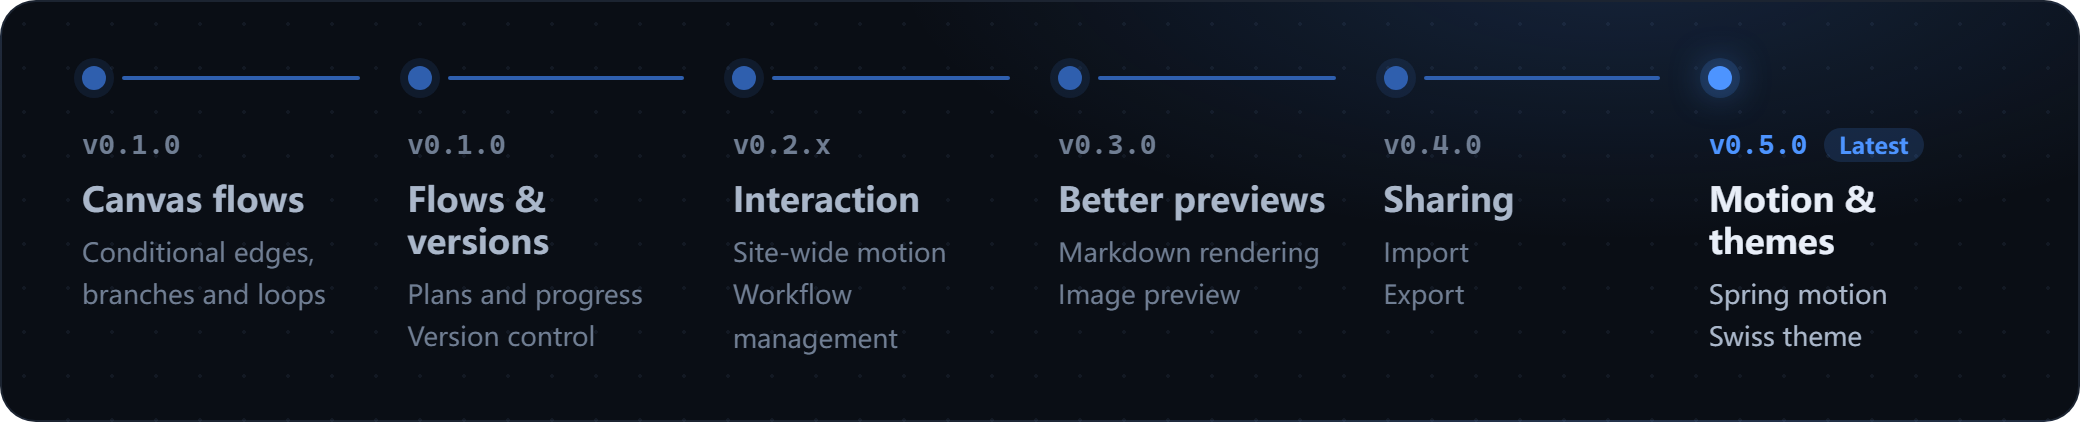
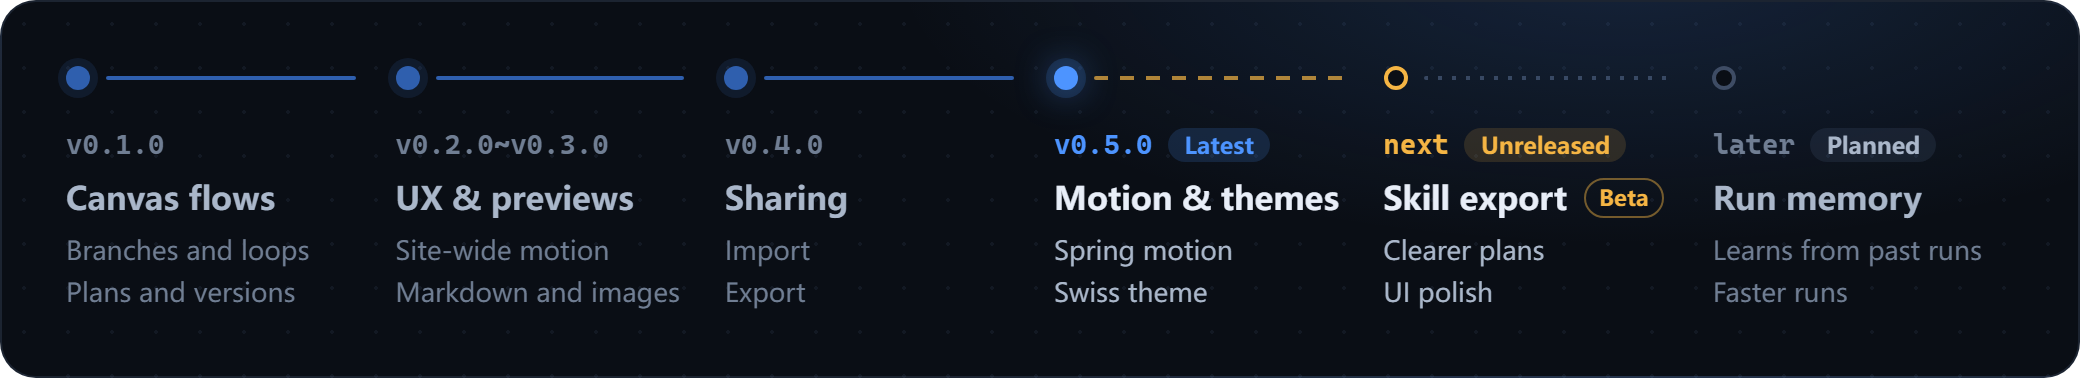
docs: 精简 Unreleased 的 CHANGELOG；版本线合并早期几站、导出 Skill 标实验性、加规划中的工作流记忆

diff --git a/tests/readme/versions.html b/tests/readme/versions.html
@@ -29,7 +29,7 @@
   html, body { margin: 0; background: transparent; }
   body { width: 1040px; }
   .card {
-    padding: 30px 40px 30px;
+    padding: 30px 32px 30px;
     border: 1px solid var(--line);
     border-radius: 18px;
     background:
@@ -41,7 +41,7 @@
     -webkit-font-smoothing: antialiased;
   }
 
-  ol { display: grid; grid-template-columns: repeat(var(--n), 1fr); gap: 0 18px; margin: 0; padding: 0; list-style: none; }
+  ol { display: grid; grid-template-columns: repeat(var(--n), 1fr); gap: 0 14px; margin: 0; padding: 0; list-style: none; }
   .stop { min-width: 0; }
 
   /* 轨道：圆点 + 通向下一站的线。线从点出发，铺满这一栏，接到下一栏的点。 */
@@ -62,8 +62,15 @@
     background: repeating-linear-gradient(90deg, rgb(245 181 68 / 70%) 0 7px, transparent 7px 13px);
   }
 
-  /* 还没发的：空心点。 */
+  /* 还没发的：空心点；它后面通向「还没定版本」的线淡成点线。 */
   .stop[data-state="next"] .dot { background: var(--bg); box-shadow: inset 0 0 0 2px var(--amber); }
+  .stop[data-state="next"] .seg {
+    height: 2px;
+    background: repeating-linear-gradient(90deg, rgb(140 170 220 / 32%) 0 2px, transparent 2px 7px);
+  }
+
+  /* 还没定版本的规划：灰色虚线圈，字比「未发布」再淡一档。 */
+  .stop[data-state="planned"] .dot { background: var(--bg); box-shadow: inset 0 0 0 2px rgb(140 170 220 / 40%); }
 
   /* 每站一个版本号；改过几个版本的写成 起~止。 */
   .head { display: flex; gap: 8px; align-items: center; height: 22px; margin-bottom: 6px; }
@@ -75,8 +82,15 @@
     font-size: 11.5px; font-weight: 650; white-space: nowrap;
   }
   .stop[data-state="next"] .chip { background: rgb(245 181 68 / 14%); color: var(--amber); }
+  .stop[data-state="planned"] .chip { background: rgb(140 170 220 / 10%); color: var(--text-2); }
 
-  h3 { margin: 0 0 6px; font-size: 17px; font-weight: 650; color: var(--text-2); }
+  h3 { margin: 0 0 6px; font-size: 16px; font-weight: 650; color: var(--text-2); }
+  /* 标题旁的小签（「实验性」）：描边、不铺底，比上面的版本小签淡一档，不抢标题。 */
+  .tag {
+    display: inline-block; margin-left: 8px; padding: 0 7px; border: 1px solid rgb(245 181 68 / 45%);
+    border-radius: 999px; color: var(--amber); font-size: 11px; font-weight: 600; line-height: 18px;
+    vertical-align: 2px; white-space: nowrap;
+  }
   .stop[data-state="current"] h3, .stop[data-state="next"] h3 { color: var(--text); }
   p { margin: 0; color: var(--text-3); font-size: 13px; line-height: 1.65; }
   .stop[data-state="current"] p, .stop[data-state="next"] p { color: var(--text-2); }
@@ -86,18 +100,18 @@
   <div class="card"><ol id="line"></ol></div>
   <script>
     const esc = (t) => String(t).replace(/[&<>]/g, (c) => ({ '&': '&amp;', '<': '&lt;', '>': '&gt;' })[c])
-    // data: { lang, labels: { current, next }, stops: [{ label, state, title, lines }] }
+    // data: { lang, labels: { current, next, planned }, stops: [{ label, state, title, tag?, lines }] }
     window.render = (data) => {
       document.documentElement.lang = data.lang === 'en' ? 'en' : 'zh-CN'
       const line = document.getElementById('line')
       line.style.setProperty('--n', String(data.stops.length))
       line.innerHTML = data.stops
         .map((stop) => {
-          const chip = stop.state === 'current' ? data.labels.current : stop.state === 'next' ? data.labels.next : ''
+          const chip = data.labels[stop.state] ?? ''
           return `<li class="stop" data-state="${stop.state}">
             <div class="rail"><i class="dot"></i><i class="seg"></i></div>
             <div class="head"><b class="ver">${esc(stop.label)}</b>${chip ? `<span class="chip">${esc(chip)}</span>` : ''}</div>
-            <h3>${esc(stop.title)}</h3>
+            <h3>${esc(stop.title)}${stop.tag ? `<span class="tag">${esc(stop.tag)}</span>` : ''}</h3>
             <p>${stop.lines.map(esc).join('<br>')}</p>
           </li>`
         })

diff --git a/CHANGELOG.md b/CHANGELOG.md
@@ -7,59 +7,48 @@
 
 ## [Unreleased]
 
+这一版的主角是「导出成 Skill」（实验性）：把工作流编译成一个独立的 skill，别人不装插件也能用。另外派发计划重新排版，实例里的文件夹改成左右两栏的浏览器。
+
+**升级不需要做任何事**——工作流、版本、实例状态文件、工作流包的格式都没有变；新增的 RPC 和返回字段，旧前端忽略。
+
 ### Added
 
-- 工作流可以导出成 skill，别人不装插件也能用：工作流中心「工作流」页的「导出」顶上多了「工作流包 / Skill」开关。选 Skill 时版本只能选一个，资源清单照旧勾（文件、文件夹放进 skill 的 `assets/`，资料目录整个带上，有目录的 skill 放进 `skills/<名>/`），再多一步「Skill 信息」：名称（DSH 的规矩，小写字母、数字用 `-` 连接；工作流名是英文就预填）、描述（必填，预填一句「按工作流某某的 N 个步骤执行：A → B → …」）、使用时机（可不填，写进 `whenToUse`），可以预览整个包：和实例里看文件夹的那个框一样，左边文件树（搜索、进子目录、面包屑、键盘）、右边预览，一打开先看 SKILL.md，Markdown 开头的 YAML 头部（SKILL.md、包里 skill 的 SKILL.md）列成元数据、不当正文排版，源码视图里原样；本机已有同名 skill 时提示一句。最后「下载 zip」（`<名>.zip`，里面一层 `<名>/`），或「装到本机」直接写进 `~/.agents/skills/<名>`（已经有了先浮出确认卡问覆不覆盖）。包里是编译好的提示词，不是图：`SKILL.md` 是派发计划，`steps/<id>.md` 是各步骤的任务描述。计划按 skill 的口径写：包里的东西一律写成 `{skill}/…`（加载 skill 时宿主给出的目录；派给子代理、队员时换成绝对路径），其余相对路径相对工作区；产出根目录原样保留，默认值里的 `{instance}` 由执行者开始时取当前时间当编号；「开始之前」先问用户输入节点的问题（问题下面带上填写说明和示例——插件里它们显示在填写框上，skill 里由模型来问），再确认没打包的 skill 已装好、按绝对路径引用的文件在本机；打包的 skill 改成读包里的 `SKILL.md`。计划改用通用口径，不点名任何 DSH 工具和插件动作，在别的 agent 里也能照着做：执行方式、复用执行者、设定目标都换成只说要做成什么的写法（「用你的环境里派子代理的方式」「环境里有会话目标、待办清单这类功能时用它记下来」），没打包的 skill 由执行者自己加载。开了「记录运行状态」的工作流，skill 里改成模型自己建、自己改工作区里的 `.workflow-lite/runs/{instance}/state.yaml`：计划按图给出初始内容（每个步骤一项），写明各字段、什么时候改，开始时先找这个工作流上次没走完的状态文件、问用户要不要接着跑，中断后按各步骤的判定走分支接着做（导出页会说明 skill 里没有画布上的实时查看）。插件里执行的计划不变，照旧点名工具、用 `state` 动作。这些跟执行环境有关的措辞都收在 `src/shared/dialect.ts`，两套并排写。有编译级问题的版本导不出来。新增 RPC `pack/skillPreview`（能导出时整个包另摆进暂存区，回一个 `browse` 编号）、`pack/skillExport`，以及按这个编号浏览包的 `pack/skillDir`、`pack/skillFile`、`pack/skillImage`（只许往下走，软链指出去的不认；离开这一步时清掉，没清掉的跟着暂存区一天后清）；工作流包的格式不变
-- 实例里点开文件夹资源，重做成左右两栏的浏览器，不再是「一大段说明压着一串平铺的名字」：左边和「选择文件 / 文件夹」对话框是同一套部件（路径栏、筛选框 + 「隐藏项」、列表第一行「上一级」，抽成 `DirParts`），只是不画框：路径直接写在面板上（当前一级加粗，点哪层退回哪层），搜索框是淡底，上下没有分隔线；筛选只筛这一层的名字，命中的字用强调色标出，框里右侧计数「命中 / 总数」，`.` 开头的项默认不列；列表目录在前，点目录进去、点文件在右边看。右边按文件的样子预览：Markdown / HTML 可切「预览 / 源码」，图片直接是放大看图那一块（上面一条工具：缩放、适应、1:1、旋转、背景；滚轮缩放、拖动平移、双击切换适应与原大，不用再点开弹框），其余文本原样，大文件、二进制说明原因；预览标题行带复制路径、用其他程序打开。键盘全程可用：↑ ↓ 选、→ 或回车进目录、← 或退格退一层，直接打字就是搜索（回车打开第一个命中），Esc 先清掉搜索、再关框。「说明」收进标题行的「说明」开关，不再占上半屏。动效只用 transform / opacity，和选择文件的对话框一个做法：换层时旧列表留个影子往外退、新列表从另一侧进来，面包屑长出一级从前一级背后展开，选中块跟着光标上下滑；几千项的文件夹用 `content-visibility` 让屏幕外的行不排版。框缩得很窄时一次只看一栏（预览标题行多一个「回到列表」）
-- 新增 RPC `run/dir`（`{ id, node, item?, sub? }`）：列文件夹资源下一层的内容（名字、是不是目录、大小、修改时间，目录在前，最多 3000 项）。`run/file`、`run/image` 的 `node` + `item` 目标可再带 `sub`（文件夹里的相对路径），`run/image` 的 `src` 改为可选（不给就是目标文件自己，要求它是张图）。`sub` 只许往下走：`..`、盘符一律拒绝，指到文件夹外面的软链也不认（这几条路由仍不是通用的读文件口子）。旧前端不受影响
-- 文件查看框能直接看图片了（png / jpg / gif / webp / avif / svg），摆成放大看图的那一块，可缩放、平移、旋转：以前产出里的图片文件只会显示「二进制文件，看不了」
-- 文件夹浏览和「选择文件 / 文件夹」对话框里，常见文件类型各有各的图标和色调（代码、配置 / 数据、表格、幻灯片、文档、压缩包、音频、视频、字体、三维模型等，按扩展名和 `Dockerfile` 这类固定文件名认）；名字太长被省略号截掉时，悬停显示完整文件名。搜索框里的数字改成滚动换字：命中数变多往上滚、变少往下滚，只有左边的命中数在动，「/ 总数」不跟着变；有搜索词时放大镜淡成强调色；搜索框的提示文字缩短（「搜索文件」/ `Search`），窄栏里能完整显示，左栏收窄到 240–260px，和选择文件对话框的文件树同宽
-- 「用其他程序打开」的程序表按扩展名缓存：同类文件（.png、.md……）只向系统查一次，之后菜单一点开就直接列出，后台再核对一遍（刚装了新程序也会补上）；鼠标移到按钮上就先查，点开时多半已经有了；同类文件正在查时不重复问。以前每次点开都要等系统重新枚举一遍。
-- HTML 预览里有图片没加载出来时，标题行里淡入一个小警告图标（查看框和文件夹浏览右边的预览都有），悬停说明原因：预览页面在隔离的框里运行、读不到本机文件，本地路径和相对路径的图片显示不出来，想看完整效果用「用其他程序打开」在浏览器里打开。检测是往页面里补一小段脚本数加载失败的 `<img>`，把个数报给外面；外面只认自己这个框发来的整数，不解析、不改写页面里的图片地址，沙箱也没有放宽。
+- **导出成 Skill（实验性）**：工作流中心「工作流」页的「导出」顶上多了「工作流包 / Skill」开关。包的结构和计划的写法后面还会调整，导出的 skill 不保证和以后的版本导出的一样
+  - 流程：选一个版本 → 勾资源（文件、文件夹放进 `assets/`，资料目录整个带上，有目录的 skill 放进 `skills/<名>/`）→ 填「Skill 信息」（名称按 DSH 的规矩，描述预填一句，使用时机可不填）→「下载 zip」或「装到本机」（`~/.agents/skills/<名>`，同名的先确认覆盖）。有编译级问题的版本导不出来
+  - 能预览整个包：左边文件树、右边预览，和实例里看文件夹是同一个框；SKILL.md 的 YAML 头部列成元数据
+  - 包里是编译好的提示词，不是图：`SKILL.md` 是派发计划，`steps/<id>.md` 是各步骤的任务描述。包内的东西写成 `{skill}/…`，其余相对路径相对工作区，`{instance}` 由执行者开始时取当前时间；「开始之前」先问用户输入节点的问题，再确认没打包的依赖在本机
+  - 计划用通用口径：不点名任何 DSH 工具和插件动作，在别的 agent 里也能照着做（跟执行环境有关的措辞集中在 `src/shared/dialect.ts`，DSH / 通用两套并排）。开了「记录运行状态」的，由模型自己维护工作区里的 `.workflow-lite/runs/{instance}/state.yaml`，中断后能接着跑。插件里执行的计划不变
+  - 新增 RPC `pack/skillPreview`、`pack/skillExport`，以及浏览暂存包的 `pack/skillDir`、`pack/skillFile`、`pack/skillImage`（只许往下走，离开这一步时清掉）
+- **文件夹浏览**：实例里点开文件夹资源，改成左右两栏。左边是路径栏、筛选框和列表（和「选择文件 / 文件夹」对话框同一套部件），右边按文件类型预览（Markdown / HTML 可切源码，图片可缩放、平移、旋转）；全程能用键盘，常见文件类型各有图标，名字被截断时悬停看全名。新增 RPC `run/dir`；`run/file`、`run/image` 可带 `sub` 读文件夹里的文件（只许往下走）
+- 文件查看框能直接看图片（png / jpg / gif / webp / avif / svg），以前只显示「二进制文件，看不了」
+- 「用其他程序打开」的程序表按扩展名缓存，鼠标移上去就先查，点开就列出来
+- HTML 预览里有图片没加载出来时，标题行显示一个警告图标，悬停说明原因（预览在隔离的框里，读不到本机文件）和办法
 
 ### Changed
 
-- 导出、导入页底栏和清单对齐：「上一步 / 下一步」这些按钮的右边和上面清单的右边（分类开关、每行右端的大小）在同一条线上。以前底栏没让出清单滚动条那一条，按钮比清单多伸出 10px；每行右端的大小也比分类开关缩进了 8px。资源清单上方那句说明和步骤指示左边对齐（以前缩进 2px）。导出成 Skill 的「内容」一行改成和清单里的行同一个样子（图标、名字、下面一行统计，右端「预览」），名字不再用等宽字、不带结尾的 `/`
-- 派发计划（连同导出的 SKILL.md）和各步骤的任务描述重新编排，按「先定义、后使用，一件事只在一处说」排段，Markdown 排出来层次分明，不再糊成一团：
-  - 计划的段落改成：概览 → 本次执行（目标、工作区、实例、用户输入，各一项）→ 开始之前（设会话目标、确认工作区、skill 里先问用户、确认依赖，编号列出）→ 怎么执行（执行方式、复用执行者、一次一个步骤、派发、交接、证据）→ 约定（路径、产出写到哪、资源怎么用，以及「产出」「更新」的定义）→ 流程（清单表按执行顺序排，下面是执行批次、分支、循环、交接）→ 资源（一个资源一行的总览，只写种类与位置）→ 注意事项 → 运行状态。原来的「你拿到的是什么 / 图的事实 / 分发纪律 / 交付契约」拆进上面各段；「产出」「更新」不再在资源清单之后才补充说明
-  - 分支把「回复的最后一行要给什么」和「哪个结果走哪」写在同一项里；循环一项写清楚环、出口和去向，没有出口的直接说会无限重复
-  - 交接：「怎么执行」里只讲缺省交执行结果；附了交接说明、只管先后的线逐条列在「流程」的「交接」里。附说明的线写成「交执行结果，并附上交接说明：…」——原来列在「例外」下面、只写「说明：…」，读起来像是只交说明、不交执行结果
-  - 资源的说明只在任务描述里出现（多行的逐行引用，结构原样），计划里不再抄一遍（一个 6 步、20 来个资源的工作流，计划从 31 KB 降到 6 KB）。整卷版没有任务描述，说明仍写在计划的「资源」里，末尾的「步骤正文」按执行顺序排
-  - 「注意事项」只放警告；提示是写给画图的人的修图建议，不再进计划
-  - 任务描述开头是步骤名标题和一句位置（属于哪张工作流、前置是谁、之后去哪、带什么条件），接着是提示词原文；分隔线后依次是「用户输入」（连到这一步的问题，以及没连线、交给所有步骤的问题；插件里建实例时回答已知就直接写上，计划里也就不再要求编排者转交；导出的 skill 里写明回答由编排者转交）、「通用约定」（交给所有步骤的资源）、「这一步的资源」（先给产出 / 更新的定义，再每个资源一个小标题，按产出 → 更新 → 读取）、「回复」（判定步骤要写的 `VERDICT` 行）
-  - 导出的 SKILL.md 在正文前加一个一级标题（skill 名）。校验提示里的资源名加上「」（「foundation 写资源「忽略规则」，但没有步骤读它」）
-  - 改的只是提示词的措辞与排版，工具接口、数据格式都没变
-- 查看 SKILL.md 时，正文前的说明块改成「元数据」几行字，读的是 SKILL.md 头部：`name` 一定有，`description`、`whenToUse` 没填就不显示（不再留「未填写」的空块）；头部里宿主解析出的其余键值（作者、仓库、许可、版本……）接在后面（DSH 自己附加的、不在文件里的管理用键，比如 `dshSkillsManager`，以 `dsh` 开头的不显示），有几条显示几条，值是网址就做成链接（新窗口打开），列表用顿号连起来。每块一个色点，按排位在粉、蓝、琥珀、绿、紫、青、珊瑚、橄榄之间循环，后面是等宽的字段名（前三项另带中文名）；不铺底色，名字用等宽加粗，其余值左边一根字段色的细竖线（和正文里的引用同一个写法），底下一道细线和正文隔开。`host/skill` 的返回里因此多了可选的 `metadata`（没有别的键就不带），旧前端忽略它。正文照旧交给 markdown-it 排版，不另外解析 frontmatter（宿主给的 `content` 已经去掉了头部）
-- 文档查看框和计划预览里那对切换开关改名「预览 / 源码」（以前是「排版 / 源码」，「排版」是动词，和名词「源码」配不成一对；英文 `Rendered`、`Formatted` 也统一成 `Preview`）；HTML 文件以前那一项叫「页面」，现在也叫「预览」，各种格式都是同一对词
-- 文件查看框里「源码」（以及纯文本）的版心和「预览」对齐：同样 780 宽居中、左右 28px，两边切换时文字的左边缘不再跳；以前源码是铺满整个框、顶到边上
-- 资源卡里编辑 Skill 项时，输入框下面那段「✓ 一句话说明 + 查看 SKILL.md」去掉了（说明本来就在 SKILL.md 预览里）；DSH 认得这个名字时，输入框右端浮出一个小眼睛（悬停提示「查看 SKILL.md」，不占位，输入框宽度不变），点开看；下面照旧是「执行者会先用 skill 工具加载它」的提示，认不出才换成「没找到」的警告；「从清单选」「浏览」「打开」三个小按钮从输入框右边挪到上面的标签行右端（以前和 32px 的输入框并排，26px 的按钮矮一截），按钮仍是通用的小号，输入框占满整行，长路径也不用挤
-- 「选择 Skill」清单打磨：悬停时那块盖住下面好几行的整段说明提示去掉了（完整说明在右边小眼睛的预览里）；每行的说明改成最多两行（以前一行常常读到一半就截断）；筛选时命中的字在名字和说明里用强调色标出，右上角计数变成「命中 / 总数」；来源小签定宽靠右，每行的小眼睛排成一列。较新的 DSH 把用户目录里的 skill 来源记成 `agent-dsh`、`agent-agents`，原先原样显示成「agent-agents」，现在归入「用户」
-- 弹窗的边距对齐到同一条内容边（缺省 16px，「选择 Skill」放宽到 24px，左右不贴着弹窗边和滚动条）：「选择 Skill」里名字（多选时是勾选框）的左边和搜索框、标题图标对齐，右边的 ✕、计数、小眼睛的右缘对齐；所有带标题栏、底栏的弹窗，✕ 的图形右缘和底栏按钮的外缘也落在这条边上（以前标题栏右边留 12px、底栏两边留 12px，和下面 16px 的内容差几个像素）
-- 「选择 Skill」每行的悬停、选中底色不再铺满弹窗宽度：改成缩进的圆角块（和工作流下拉里的菜单项同一个圆角、同一个渐显），左边离弹窗边 16px、右边离滚动条 6px，名字、勾选框、小眼睛在底色里各留 8px；瑞士下照旧是直角
-- 导出页切「工作流包 / Skill」、前后翻步骤时不再一下跳变（都只动 transform / opacity）：
-  - 步骤指示多出的「3 Skill 信息」从第二步背后展开、切回来时收回去（和文件夹浏览的路径栏同一个做法）
-  - 标题下的说明、开关旁那句说明两句叠在同一格里原地交替，标题栏不跟着变高变矮
-  - 「已选 n 个版本」「全选」在 Skill 下淡掉但位置留着，标题行不跳；底栏那句、没勾上的行变淡都是渐变
-  - 下面的内容按步骤方向整块交接：往后一步新的从右边进来，往回（包括在第二、三步切种类回到第一步）从左边进来，读取、编译完成原地淡入；读得快时不再闪一下转圈
+- **派发计划和任务描述重新编排**（插件里的计划和导出的 SKILL.md 都是），按「先定义、后使用，一件事只在一处说」排段：
+  - 计划：概览 → 本次执行 → 开始之前 → 怎么执行 → 约定 → 流程 → 资源 → 注意事项 → 运行状态。分支、循环、交接都写在「流程」里，附了交接说明的线写成「交执行结果，并附上交接说明：…」；「注意事项」只放警告
+  - 任务描述：位置一行 → 提示词原文 → 用户输入 → 通用约定 → 这一步的资源 → 回复。资源说明只在这里出现，计划里不再抄一遍（一个 6 步的工作流，计划从 31 KB 降到 6 KB）
+  - 只改措辞和排版，工具接口、数据格式都没变
+- SKILL.md 的预览：头部字段列成「元数据」（`name`、`description`、`whenToUse` 和其余键值，网址做成链接）；`host/skill` 的返回多了可选的 `metadata`
+- 查看框的切换开关统一叫「预览 / 源码」（HTML 原来叫「页面」）；源码和预览同一版心，来回切时文字不跳
+- 资源卡的 Skill 项：查看 SKILL.md 改成输入框右端的小眼睛；「从清单选」「浏览」「打开」挪到标签行右端
+- 「选择 Skill」清单：去掉盖住下面几行的悬停说明，每行说明最多两行，筛选命中的字高亮，计数显示「命中 / 总数」；悬停、选中底色改成缩进的圆角块；来源 `agent-dsh`、`agent-agents` 归入「用户」
+- 弹窗的边距对齐到同一条内容边（缺省 16px，「选择 Skill」24px）；导出、导入页底栏的按钮和清单右边对齐
+- 导出页切「工作流包 / Skill」、前后翻步骤时不再跳变：多出的一步从前一步背后展开，说明原地交替，内容按步骤方向整块交接（只动 transform / opacity）
 
 ### Fixed
 
-- 文件夹浏览（包括导出成 Skill 时预览整个包）的路径栏放不下时溢出到右边的预览里（`e2e-adopt › skills › humanizer-zh-next` 的最后一级压到了分隔线上）。现在前面几级先缩成省略号（各留一两个字），当前这一级最后才截断；被截断的一级悬停时提示全名
-
-另外，把现有的几个工作流导出成 skill、逐份对着图核对文字，改掉下面这些漏写、写错和容易读歪的地方（插件里执行的计划同样受益）：
-
-- 任务描述的「用户输入」漏了题型和选项：导出的 skill 里回答要等编排者转交，执行者只看到问题，不知道是单选哪几项、默认什么、必不必填。现在问题后面带上和计划里一样的说明（「单选：A / B，可自己填写，默认「A」，可不填」）
-- 默认值加上「」：值本身常是一句话（「先查：查各仓远程 tag……」），不括起来就和后面的「必填」「可不填」连成一片
-- 串行执行的工作流不再提子代理：计划里「派给子代理或队员时先把 `{skill}` 换成绝对路径」、运行状态里「子代理、队员不改状态」这两句，串行时整句去掉（串行就是你本人一个个做，这两句只会让人以为还要派人）
-- 「交接」按执行顺序列（以前按目标步骤的 id 排，先列了后面才走到的线）；条件的写法统一成 `` `VERDICT: pass` 时``、回边写「循环回来时」，「流程」表的前置列、任务描述开头的位置行、「交接」三处同一条线写法一样（以前表里是 `when=pass`、「循环中返回」，交接里是「当 `pass` 成立时」）
-- 循环入口读的资源若只由环里排在后面的步骤写（比如验收写 verify.md、草稿步骤读它返工），任务描述在这个资源下注明「第一轮读到这里时它可能还不存在，不存在就跳过；从第二轮起读到的是上一轮写的」。以前什么都不说，第一轮执行者找不到文件，要么停下来、要么自己猜。分支同理：写它的步骤在上游、但走别的分支能绕开它到这一步时（比如判定通过直接去报告、没经过修复，报告却要读修复记录），注明「只在部分分支上执行，走别的分支到这一步时它可能不存在：不存在就跳过，照实说明没有这份」
-- 产出是文件夹时补一条「整份重写的是这一步往里写的那些文件；文件夹里原有的、不是这一步写的东西不动，不要清空整个文件夹」。「产出」的定义是「每次整份重写、不保留上一次」，对一个长期在用的文件夹（别的仓库里放着所有缺陷档案的目录）照字面执行，会把不归这一步管的东西一起删掉。只对落在产出根目录外面的文件夹补（绝对路径，或者产出根目录就是工作区）；根目录里面的是这个工作流自己的产出区，说明里常要求「每轮整目录重写」，补了反倒打架
-- 更新的是文件夹时同样补一条「按资源说明在里面新增或修改文件，说明没提到的已有文件不动，不要清空、搬动或整理整个文件夹」：「更新」的定义讲的是文件（「在原文件上改，不要另存副本」），落到文件夹上就成了不许新增文件，和「每次只新增一份 <版本号>.md」这类说明打架
-- 导出的 skill：写到绝对路径的产出（比如在别的仓库里就地更新的目录）也列进「开始之前」的「确认这些文件和文件夹在本机」（以前只列读的，写的被当成产出根目录下的东西跳过了；要新写出来的确认上一级文件夹在）；这里列的路径和资源里一样用 `/` 分隔，同一个文件夹不再一处 `\`、一处 `/`
-- 执行批次的括注只说图里有的：没有循环不提「忽略回边」，没有分支不提「互斥分支只会走一条」；概览里没有循环也不说「先后与循环」
-- 资源 id 就是照名字起的（`res-` + 名字）时，不再在后面括一遍名字（「`res-仓库清单`（仓库清单）」）；名字里本来带「（更新）」的，表里不再标成「（更新）（更新）」
-- 用户输入「交给」哪些步骤按执行顺序列（以前按 id）
-- 新增两条校验警告（进计划的「注意事项」）：资源里种类是「文件」、路径却以 `/` 结尾的（像是文件夹选错了种类，计划里会写成「文件：…/」）；选择题的选项还是编辑器加选项时填的占位「选项 1」「选项 2」的（没改过就原样进了计划，用户被问时只看到几个编号）
+- 把现有工作流导出成 skill、逐份对照图核对后，补上计划里漏写、写错的地方（插件里执行的计划同样受益）：
+  - 任务描述的「用户输入」带上题型、选项和默认值（默认值加「」）；用户输入交给哪些步骤，按执行顺序列
+  - 「交接」按执行顺序列；同一条线的条件在流程表、位置行、交接三处写法一致（`` `VERDICT: pass` 时``、「循环回来时」）
+  - 资源可能还不存在时注明怎么办：循环里排在后面的步骤才写的，第一轮跳过；只在部分分支上写的，照实说明没有这份
+  - 产出到根目录外的文件夹、更新文件夹时，只动这一步写的文件，不清空整个文件夹
+  - 串行执行的工作流不再提子代理；执行批次的括注和概览只说图里有的（没有循环就不提回边）
+  - 资源 id 就是照名字起的，不再括号里重复一遍名字；不再出现「（更新）（更新）」
+  - 导出的 skill 里，写到绝对路径的产出也列进「确认在本机」，路径统一用 `/`
+  - 新增两条校验警告：种类是「文件」的资源路径以 `/` 结尾；选择题的选项还是「选项 1」这类占位
+- 文件夹浏览的路径栏放不下时溢出到右边的预览里。现在前面几级先缩成省略号，当前这一级最后才截断，被截断的悬停看全名
 
 ## [0.5.0] - 2026-10-17
 

diff --git a/AGENTS.md b/AGENTS.md
@@ -109,10 +109,10 @@ DSH_WEB_TOKEN=<token> DSH_BASE=http://127.0.0.1:3190 node --experimental-strip-t
 
 README 里、封面图下面的「版本线」是一张图（`assets/versions.{zh,en}.png`），挑重要变化，一条一站，不逐版本列。
 
-- 内容在 `tests/readme/versions.json`：每站写落在哪个版本（要显示成别的就写 `label`，改过几个版本的写 `to`）、标题、两行短话（中英各一份）；还没发的写 `"next"`。排版在 `tests/readme/versions.html`。
+- 内容在 `tests/readme/versions.json`：每站写落在哪个版本（要显示成别的就写 `label`，改过几个版本的写 `to`）、标题、两行短话（中英各一份），标题旁要挂「实验性」这类小签写 `tag`（英文要短，`Beta`，长了会折到下一行）；还没发的写 `"next"`，还没定版本的规划写 `"planned"`（排在最后，显示成 `later`，不核对 CHANGELOG）。排版在 `tests/readme/versions.html`。
 - 出图：`pnpm run timeline`（要一个带 DevTools 端口的 Chrome：`node tests/lib/cdp-chrome-launch.mjs 9222`，不用起 dsh）。脚本对照 `CHANGELOG.md`，json 里的版本不存在、或有新的小版本没写进 json 就报错。
 - 发版时：把 `"next"` 改成这个版本号（有新的重要变化就加一站），重跑，新图一起提交。
-- 标题 ≤ 7 个汉字 / 18 个英文字符，短话每行 ≤ 9 个汉字 / 22 个英文字符，站数 6 站左右；出图后看一眼两张图。
+- 6 站时一栏约 150px：标题 ≤ 7 个汉字 / 15 个英文字符（带小签的再短些），短话每行 ≤ 9 个汉字 / 22 个英文字符；站数 6 站左右，多了就把早期几个版本合成一站（写 `to`）；出图后看一眼两张图。
 
 ## README 封面图
 

diff --git a/README.en.md b/README.en.md
@@ -79,7 +79,7 @@ Turn on **Record run state** in **Workflow settings**. Every run then leaves a r
 | Page preview | HTML files among the resources open as pages; make one a dashboard updated every round to follow a loop's output |
 | Versions | Save versions with notes, compare differences, switch back at any time |
 | Import / export | Pack a workflow and the versions you pick into one `.wflite.zip`, optionally with the files and Skills it uses; before importing, see where each item will go |
-| Export as a Skill | Compile one version into a skill (SKILL.md, a task description per step, plus the files and Skills you pack) that works without the plugin; download a zip or install it straight into `~/.agents/skills` |
+| Export as a Skill (beta) | Compile one version into a skill (SKILL.md, a task description per step, plus the files and Skills you pack) that works without the plugin; download a zip or install it straight into `~/.agents/skills` |
 | Workflow hub | One place for run records across sessions, all workflows and their versions, and plugin settings |
 | Interface | Four light and four dark color themes that follow DSH light or dark mode; English / 中文 |
 

diff --git a/README.md b/README.md
@@ -79,7 +79,7 @@ dsh web
 | 页面预览 | 资源里的 HTML 文件点开就是页面，可做成每轮更新的看板，随时查看循环产出 |
 | 版本管理 | 保存版本、添加说明、对比差异、随时切换 |
 | 导入导出 | 把工作流和选中的版本打成一个 `.wflite.zip`，可以连同用到的文件与 Skill 一起打包；导入前列出每样东西放到哪 |
-| 导出成 Skill | 把一个版本编译成 skill（SKILL.md + 每步的任务描述 + 打包的文件与 Skill），不装插件也能用；下载 zip，或直接装到本机的 `~/.agents/skills` |
+| 导出成 Skill（实验性） | 把一个版本编译成 skill（SKILL.md + 每步的任务描述 + 打包的文件与 Skill），不装插件也能用；下载 zip，或直接装到本机的 `~/.agents/skills` |
 | 工作流中心 | 集中管理各会话的执行记录、全部工作流与版本，以及插件设置 |
 | 界面 | 浅色、深色各四套配色主题，跟随 DSH 自动切换；中文 / English |
 
